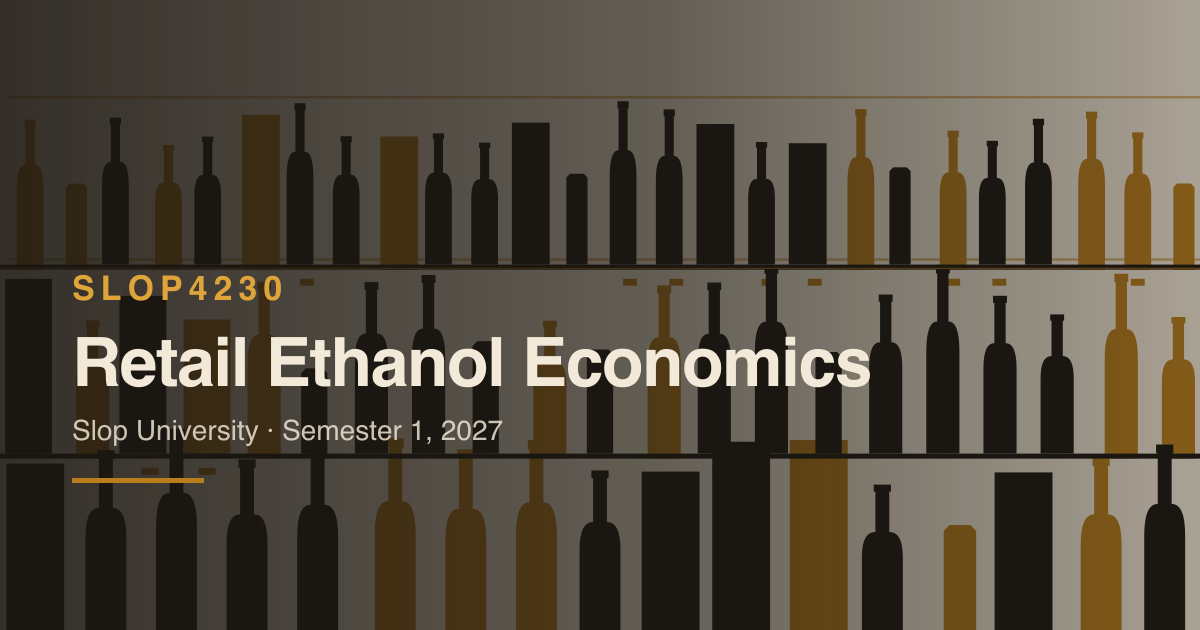
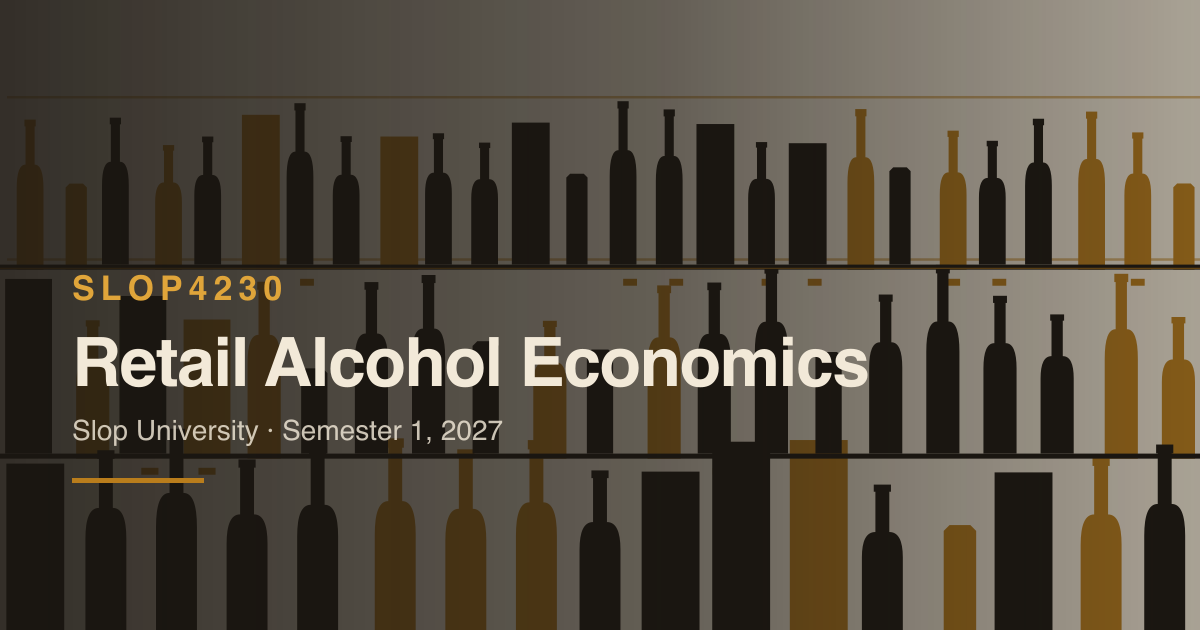
added process.md

Changed region(s): [[0.2158, 0.5127, 0.74, 0.6333]]

diff --git a/scripts/make-artwork.ts b/scripts/make-artwork.ts
@@ -209,7 +209,7 @@ const cardOverlay = `  <defs>
   </defs>
   <rect width="1200" height="630" fill="url(#scrim)" />
   <text x="72" y="300" fill="#e0a53a" font-family="Public Sans, Helvetica, Arial, sans-serif" font-size="34" font-weight="600" letter-spacing="6">SLOP4230</text>
-  <text x="72" y="386" fill="${CREAM}" font-family="Public Sans, Helvetica, Arial, sans-serif" font-size="68" font-weight="600" letter-spacing="-1.5">Retail Ethanol Economics</text>
+  <text x="72" y="386" fill="${CREAM}" font-family="Public Sans, Helvetica, Arial, sans-serif" font-size="68" font-weight="600" letter-spacing="-1.5">Retail Alcohol Economics</text>
   <text x="72" y="440" fill="${CREAM}" font-family="Public Sans, Helvetica, Arial, sans-serif" font-size="28" opacity="0.82">Slop University · Semester 1, 2027</text>
   <rect x="72" y="478" width="132" height="5" fill="${GOLD}" />
 `;

diff --git a/src/site-config.ts b/src/site-config.ts
@@ -29,6 +29,7 @@ export const siteConfig = defineSiteConfig({
   links: [
     { text: "Lecture", href: "/lectures/" },
     { text: "Assessment", href: "/assessments/" },
+    { text: "Schedule", href: "/schedule/" },
     { text: "Toolkit", href: "/toolkit/" },
     { text: "People", href: "/people/" },
     { text: "Policies", href: "/policies/" },

diff --git a/src/course-config.ts b/src/course-config.ts
@@ -48,7 +48,7 @@ export const slopCourseMetaSchema = z
 // digit to your course's level (and `level` to match); keep the other three.
 export const courseMeta = slopCourseMetaSchema.parse({
   code: "SLOP4230",
-  title: "Retail Ethanol Economics",
+  title: "Retail Alcohol Economics",
   session: "Semester 1",
   year: 2027,
   level: 4,

diff --git a/PROCESS.md b/PROCESS.md
@@ -1,77 +1,40 @@
 # Process overview
 
 ## What I built
+**SLOP4230 Retail Ethanol Economics** 
+I developed a course that provides a comprehensive analysis of alcohol consumption and purchasing behaviour. The course treats the bottle shop as an empirical dataset and examines alcohol production and retail pricing through factors such as production costs, category-specific taxation, retail margins, and shelf placement. A series of practical assignments complements these topics, providing students with hands-on experience applying the concepts throughout the course.
 
-**SLOP4230 Retail Ethanol Economics** — a course that treats the bottle shop as
-a dataset and a shelf price as a claim to be checked. Twelve weeks decompose a
-retail price into production cost, category tax, margin and shelf position, each
-term established in the order the next one needs it. The comedy is entirely in
-the gap between an absurd subject and a completely sincere register, and nothing
-on the site ever acknowledges the gap.
+Here is a more academic and reflective version. I kept the discussion of the agent's limitations honest, but made the progression of the design process clearer and more suitable for a report.
 
-## The course I threw away
+## The Process
 
-I shortlisted four topics from the _Improbable Research_ IgNobel archive —
-Domestic Entomology, Ancient Aerial Anthropology, Capsicum Anatomy, Ethanol
-Economics — picked the first, and built it out to a full twelve weeks
-([`954f90e`](https://github.com/comp4020-agentic-coding-studio/comp4020-ass2-supermarine45/commit/954f90e)).
+The assignment required a subject that was sufficiently _narrow_to be improbable as a conventional university course, while nevertheless having enough depth to support a coherent 12-week curriculum. I initially drew inspiration from topics featured in previous _Ig Nobel_ Awards and explored several ideas, including domestic insects, capsicum taxonomy, and unmanned flying objects (UFOs). This is reflected in my first prototype, which focused on the effective extinguishing of household insects:
 
-Then I discarded all of it. Cohabiting with household arthropods is an ethics
-argument, and every week the agent generated drifted toward whimsy because there
-was nothing underneath to calculate. With no quantity to be wrong about, "more
-content" and "better content" looked identical — to the agent and, worryingly,
-to me. Retail ethanol economics keeps the register and gives every week a number
-to defend, which is what made the output checkable rather than merely plausible.
-The pivot is
+[`954f90e`](https://github.com/comp4020-agentic-coding-studio/comp4020-ass2-supermarine45/commit/954f90e).
+
+However, I subsequently recognised that a comprehensive academic course requires sufficient grounding in real-world research. The initial topic therefore presented a significant limitation: much of the content generated by the agent was made-up and lacked an adequate research basis. This also made iterative refinement difficult. Without established literature to evaluate the generated material, my feedback was largely limited to general instructions such as producing "better content", which did not substantially improve the results. I therefore abandoned the initial topic and pivoted to `Retail Alcohol Economics`:
+
 [`dc14976`](https://github.com/comp4020-agentic-coding-studio/comp4020-ass2-supermarine45/commit/dc14976).
 
+From this point, I progressively specified the overall structure of the course, including its pages, assignments, grading scheme, and academic policies. I then used the agent to generate the weekly content and supporting visual material (cite prompt; cite commit).
 
-Had to manually feed the text and think of visuals to be added manually. The prototype generated by claude is overly simplistic and not very interactive.
+A central requirement of the assignment was that the curriculum be coherent and avoid generic or low-quality "AI slop". I found that the initial generated content did not consistently meet the required level of academic depth. Consequently, I manually reviewed and revised the weekly material, while also identifying appropriate visualisations and other supporting elements (cite commits; cite prompt).
 
-In particular, I asked, through the prompt, to make the content grounded in actual research paper (cite), though the topic is still a mock.
+This iterative process highlighted a limitation of agentic coding: the interface and content generated by the agent were simplistic and required iterative manual refinement.
 
-Most challenge is to make the content not 'sloppy'.
+To further reduce "slop" content, I independently searched for relevant academic literature and theoretical concepts (e.g., WET policy) that could serve as foundations for individual weeks. These sources were then incorporated into the curriculum and used to replace or substantiate material generated by the agent: (cite, cite)
 
-Next challenge, reviewing the ppt manually and adding visuals where appropriate.
+The most challenging aspect of the assignment was thus, maintaining academic coherence. Although the agent was useful for generating an initial structure, it was not sufficiently reliable to perform this process autonomously.
 
-I observe, claude struggles with complex large prompts, as such the development must be done in stages.
+More broadly, I observed that the agent, even when using Sonnet 5 with high reasoning effort, struggled with large and complex prompts, particularly those requiring the simultaneous generation of coherent course content, academic grounding, and visual design. At several stages, I therefore supplemented the agent's output with independent designs from other AI tools. In my experience, Google Gemini Pro was particularly useful for relevant topic that can subsequently be incorporated into the course design.
+
+## Knowing It Was Right Before Accepting It
+I considered the prototype ready only after manually proofreading the course content and verifying that the curriculum was coherent as a whole. This process revealed several issues that required manual correction, including:
+
+* a grading scheme that was internally inconsistent (cite);
+* images with incorrect sizing or formatting (cite); and
+* a course schedule that did not adequately fit a 12-week teaching period (cite).
+
+These checks were necessary to ensure that the generated prototype was internally consistent and apt as a complete university course.
 
 
-## Fixing the agent instead of the file
-
-The new premise brought a failure mode the old one never had: a course that
-optimises alcohol-per-dollar reads, if you let it, as encouragement. I corrected
-that tone in three separate files before admitting I was working at the wrong
-layer. I replaced a `CLAUDE.md` rule with one that names both ways the argument
-fails — _"Optimisation is analysis, not endorsement"_, forbidding equally the
-"optimise responsibly" hedge and the drinking joke. Week 11's externality
-lecture, and the lab that tests a student's statement against those same two
-failures, both exist because of that rule rather than the other way round.
-
-## Knowing it was right before accepting it
-
-`pnpm check` covers compilation, accessibility, links and dangling refs. It
-cannot tell whether the course coheres, so I wrote twelve checks that can
-([`ed78455`](https://github.com/comp4020-agentic-coding-studio/comp4020-ass2-supermarine45/commit/ed78455)):
-twelve weeks means twelve lectures and twelve labs, every claim carries a
-citation in the fixed style, the weights sum to 100 across the set, no
-assessment draws on a lecture taught after its due date. Then I broke three
-things on purpose — a weight, a reading, the formula — to confirm each failed
-exactly one test and the right one. A green suite that cannot go red is worth
-nothing, and my first directional test was wrong in a way only that check
-exposed: `related:` renders on both pages, so the graph is symmetric and cannot
-say which way a dependency runs.
-
-The same instinct caught a costlier error. The three toolkit widgets
-([`d32f343`](https://github.com/comp4020-agentic-coding-studio/comp4020-ass2-supermarine45/commit/d32f343))
-looked broken at the 390px marking viewport in every screenshot I took — until
-the live site, built from an untouched commit, reproduced the fault identically.
-Headless Chrome's `--window-size` sets the window, not the layout viewport: it
-renders wide and crops. The fix was a script driving the same device emulation
-DevTools uses, which reports real overflow and would have saved an hour had I
-written it first.
-
-Two things I rejected rather than shipped: a staff portrait carrying a
-Dreamstime watermark, and my own square crops of both portraits — the theme
-never renders a person photo square, so the shape was wrong before the framing
-was.

diff --git a/src/content/lectures/week-01.md b/src/content/lectures/week-01.md
@@ -1,7 +1,7 @@
 ---
-title: Ethanol Fermentation & Baseline Costs
-description:
-  Establishing the chemical and economic baseline: fermentation margins and the absolute price floor of industrial ethanol before taxation.
+title: Alcohol Fermentation & Baseline Costs
+description: >
+  Establishing the chemical and economic baseline: fermentation margins and the absolute price floor of industrial alcohol before taxation.
 week: 1
 date: 2027-02-22
 teachers:
@@ -13,7 +13,7 @@ slides: /decks/week-01/
 
 ## The Lecture
 
-This week establishes the chemical and economic baseline for the entire twelve-week curriculum. In this course, ethanol ($C_2H_6O$) is never viewed biologically, socially, or culturally; it is viewed strictly fiscally. Before we can model retail optimization or exploit taxation loopholes, we must first isolate the absolute minimum cost of production before federal excises, packaging logistics, and retail margins distort the final shelf price. 
+This week establishes the chemical and economic baseline for the entire twelve-week curriculum. In this course, alcohol ($C_2H_6O$) is never viewed biologically, socially, or culturally; it is viewed strictly fiscally. Before we can model retail optimization or exploit taxation loopholes, we must first isolate the absolute minimum cost of production before federal excises, packaging logistics, and retail margins distort the final shelf price. 
 
 We will examine the molecular efficiency of industrial yeast strains—specifically *Saccharomyces cerevisiae*, when deployed in high-yield, low-cost sugar washes. By separating the raw thermodynamic cost of fermentation from the eventual retail markup, we establish the baseline price floor of alcohol production. 
 
@@ -23,7 +23,7 @@ Understanding this floor is critical. If, during your Week 9 data scraping exerc
 
 As outlined in the course syllabus, theory without arithmetic is mere speculation. You must prove the baseline cost before you can optimize against it. 
 
-Using the **Baseline Yield Calculator** widget provided in your lab interface, you will compute the raw production cost of a 10g ethanol unit. Enter the current bulk commodity price of refined sucrose ($/kg) and the estimated thermal energy overhead of the distillation phase. The calculator will output the absolute price floor of production. Record this metric; any disagreement between your local spreadsheet and this baseline floor will fatally compromise your final Event Portfolio.
+Using the **Baseline Yield Calculator** widget provided in your lab interface, you will compute the raw production cost of a 10g alcohol unit. Enter the current bulk commodity price of refined sucrose ($/kg) and the estimated thermal energy overhead of the distillation phase. The calculator will output the absolute price floor of production. Record this metric; any disagreement between your local spreadsheet and this baseline floor will fatally compromise your final Event Portfolio.
 
 ## Mandatory Literature
 

diff --git a/src/content/lectures/week-03.md b/src/content/lectures/week-03.md
@@ -13,11 +13,11 @@ slides: /decks/week-03/
 
 ## The Lecture
 
-Having established the chemical price floor of ethanol in Week 1 and our standardized currency in Week 2, we now introduce the first major physical vector that distorts retail pricing: packaging logistics. 
+Having established the chemical price floor of alcohol in Week 1 and our standardized currency in Week 2, we now introduce the first major physical vector that distorts retail pricing: packaging logistics. 
 
 In industrial beverage distribution, the traditional glass bottle is a mathematically catastrophic vessel. It possesses a high tare weight, requires structural reinforcement to prevent shattering, and its cylindrical geometry creates significant dead-space voids when packed into square cartons. This translates to an immense logistical overhead, as transport vehicles end up burning fuel to move heavy glass and empty air.
 
-The Australian the bag-in-box (cask) packaging format eliminates this overhead entirely. By replacing glass with a collapsible, oxidation-resistant polyethylene bladder housed in a corrugated rectangular prism, producers achieve near-100% volumetric efficiency when stacking pallets. This lecture isolates that spatial efficiency and calculates the exact margin improvement it generates per liter of ethanol. We will demonstrate how these massive savings in physical freight are passed directly to the consumer, artificially lowering the ABV-to-dollar index of cask wine before taxation is even applied.
+The Australian the bag-in-box (cask) packaging format eliminates this overhead entirely. By replacing glass with a collapsible, oxidation-resistant polyethylene bladder housed in a corrugated rectangular prism, producers achieve near-100% volumetric efficiency when stacking pallets. This lecture isolates that spatial efficiency and calculates the exact margin improvement it generates per liter of alcohol. We will demonstrate how these massive savings in physical freight are passed directly to the consumer, artificially lowering the ABV-to-dollar index of cask wine before taxation is even applied.
 
 ## Applied Computational Lab
 

diff --git a/src/content/lectures/week-04.md b/src/content/lectures/week-04.md
@@ -15,9 +15,9 @@ related:
 
 ## The Lecture
 
-Having established the baseline cost of ethanol and the logistical efficiencies of cardboard packaging, we now introduce the most significant market distortion in the Australian retail landscape: regulatory taxation. 
+Having established the baseline cost of alcohol and the logistical efficiencies of cardboard packaging, we now introduce the most significant market distortion in the Australian retail landscape: regulatory taxation. 
 
-Unlike beer and distilled spirits, which are subject to a volumetric excise (a flat federal tax applied per liter of pure alcohol), Australian wine is taxed under an *ad valorem* mechanism known as the Wine Equalisation Tax (WET). The WET applies a flat 29% tax to the *wholesale value* of the product, remaining entirely agnostic to the actual volume of ethanol contained within it. 
+Unlike beer and distilled spirits, which are subject to a volumetric excise (a flat federal tax applied per liter of pure alcohol), Australian wine is taxed under an *ad valorem* mechanism known as the Wine Equalisation Tax (WET). The WET applies a flat 29% tax to the *wholesale value* of the product, remaining entirely agnostic to the actual volume of alcohol contained within it. 
 
 This creates a highly exploitable regulatory loophole. If a producer utilizes the ultra-low-cost sugar washes from Week 1 and the ultra-cheap bag-in-box distribution from Week 3, they can aggressively minimize their wholesale price. Because the tax is a percentage of that minimized price, the federal tax burden shrinks exponentially alongside it. We will mathematically model this anomaly, demonstrating exactly how a 4-liter cask containing 80 standard drinks can legally retail for substantially less than a carton of beer containing only 20 standard drinks.
 

diff --git a/src/content/lectures/week-02.md b/src/content/lectures/week-02.md
@@ -15,9 +15,9 @@ related:
 
 ## The Lecture
 
-In Australia, a "standard drink" is legally defined as exactly 10 grams of pure ethanol. Outside of this classroom, that metric is deployed almost exclusively as a public health harm-reduction tool. In this course, we dispense with the sociological framing entirely. We recontextualize the 10-gram metric as our foundational economic currency; the exchange unit that allows us to compare wildly disparate retail categories.
+In Australia, a "standard drink" is legally defined as exactly 10 grams of pure alcohol. Outside of this classroom, that metric is deployed almost exclusively as a public health harm-reduction tool. In this course, we dispense with the sociological framing entirely. We recontextualize the 10-gram metric as our foundational economic currency; the exchange unit that allows us to compare wildly disparate retail categories.
 
-A 4-liter cask of cheap wine and a 700mL bottle of premium gin are functionally incomparable on a volumetric level. However, by reducing both to their total yield of 10-gram ethanol units, we establish a flat, standardized economic landscape. 
+A 4-liter cask of cheap wine and a 700mL bottle of premium gin are functionally incomparable on a volumetric level. However, by reducing both to their total yield of 10-gram alcohol units, we establish a flat, standardized economic landscape. 
 
 This lecture introduces the core algorithmic formula that underpins your entire semester: `Cost per Standard Drink = Retail Price / ((Volume in mL * (ABV% / 100) * 0.789) / 10)`. The constant `0.789` represents the specific gravity of ethanol at standard room temperature. By standardizing the currency, we expose the massive pricing disparities engineered by taxation and retail markups.
 

diff --git a/src/content/lectures/week-11.md b/src/content/lectures/week-11.md
@@ -1,7 +1,7 @@
 ---
 title: "Public Health Externalities and Bioethics"
 description:
-  Bioethical dimensions, negative societal externalities, and public health economics of hyper-efficient retail ethanol distribution.
+  Bioethical dimensions, negative societal externalities, and public health economics of hyper-efficient retail alcohol distribution.
 week: 11
 date: 2027-05-03
 teachers:
@@ -23,7 +23,7 @@ When retailers and consumers systematically drive down the financial cost per st
 
 In this week's lab, you will step away from price optimization to model societal cost. Using datasets provided by the course, you will calculate the imputed public health expenditure associated with the consumption volume of your Week 10 Event Portfolio. 
 
-Your task is to integrate a "social harm coefficient" into your budget spreadsheet, balancing your financial savings against the externalized morbidity costs of high-efficiency ethanol distribution. This exercise ensures your final capstone portfolio is intellectually comprehensive, acknowledging both the microeconomic savings of tax exploitation and the macro-level externalities documented in our literature.
+Your task is to integrate a "social harm coefficient" into your budget spreadsheet, balancing your financial savings against the externalized morbidity costs of high-efficiency alcohol distribution. This exercise ensures your final capstone portfolio is intellectually comprehensive, acknowledging both the microeconomic savings of tax exploitation and the macro-level externalities documented in our literature.
 
 ## Mandatory Literature
 

diff --git a/src/content/lectures/week-08.md b/src/content/lectures/week-08.md
@@ -23,7 +23,7 @@ The overarching goal of the endcap is visual obfuscation. By artificially signal
 
 This week’s lab requires an observational retail audit. You will visit a local supermarket liquor outlet and document the primary promotional endcap facing the entrance turnstile. 
 
-Your task is to manually extract the price, volume, and ABV data from the items featured on this promotional display and calculate their exact standard drink efficiency. You will then compare this "promoted" efficiency against the baseline index of the hidden cask wine we modeled in Week 3. The resulting mathematical delta is what we define as the "obfuscation premium"—the exact financial penalty a consumer pays per 10g of ethanol simply because the product was placed in a high-visibility cardboard cut-out.
+Your task is to manually extract the price, volume, and ABV data from the items featured on this promotional display and calculate their exact standard drink efficiency. You will then compare this "promoted" efficiency against the baseline index of the hidden cask wine we modeled in Week 3. The resulting mathematical delta is what we define as the "obfuscation premium"—the exact financial penalty a consumer pays per 10g of alcohol simply because the product was placed in a high-visibility cardboard cut-out.
 
 ## Mandatory Literature
 

diff --git a/src/content/sessions/01-getting-started.md b/src/content/sessions/01-getting-started.md
@@ -2,7 +2,7 @@
 title: Getting started
 description:
   The first lab of the semester — fixing the fiscal-molecule framing of
-  ethanol and the standard-drink metric every calculation this course makes
+  alcohol and the standard-drink metric every calculation this course makes
   depends on
 week: 1
 date: 2027-02-22
@@ -31,14 +31,14 @@ to do arithmetic in during the lab.
 
 ### In the lab
 
-**The fiscal molecule.** Ethanol (C₂H₆O) is not treated biologically in
+**The fiscal molecule.** Alcohol (C₂H₆O) is not treated biologically in
 this course; it is treated purely as an economic unit. We fix the chemical
 baseline week 1's lecture covers so that a production cost, not an assumed
 retail price, is what every later tax and margin calculation sits on top
 of.
 
 **The standard drink as currency.** In Australia, one standard drink is
-defined as exactly ten grams of pure ethanol. This lab fixes that
+defined as exactly ten grams of pure alcohol. This lab fixes that
 figure as the unit every ratio, tax, and comparison for the rest of the
 semester is denominated in — the way week 2's lecture treats it as a unit
 of account, not a serving suggestion.

diff --git a/src/content/assessments/wet-policy-brief.md b/src/content/assessments/wet-policy-brief.md
@@ -26,7 +26,7 @@ related:
 
 ## The brief
 
-The Australian Wine Equalisation Tax (WET) represents a profound distortion in the retail ethanol market. Your task is to draft a formal academic policy brief that deconstructs this anomaly. 
+The Australian Wine Equalisation Tax (WET) represents a profound distortion in the retail alcohol market. Your task is to draft a formal academic policy brief that deconstructs this anomaly. 
 
 You must clearly articulate the ad valorem mechanism of the WET. Specifically, how applying a 29% tax to a product's wholesale value, rather than its volumetric alcohol content, fundamentally subsidizes the mass production of high-volume, low-quality bag-in-box wine. Your analysis must bridge the gap between abstract tax legislation and physical retail behavior, demonstrating exactly how this specific loophole dictates the spatial layout and discount purchasing patterns of suburban liquor outlets. 
 
